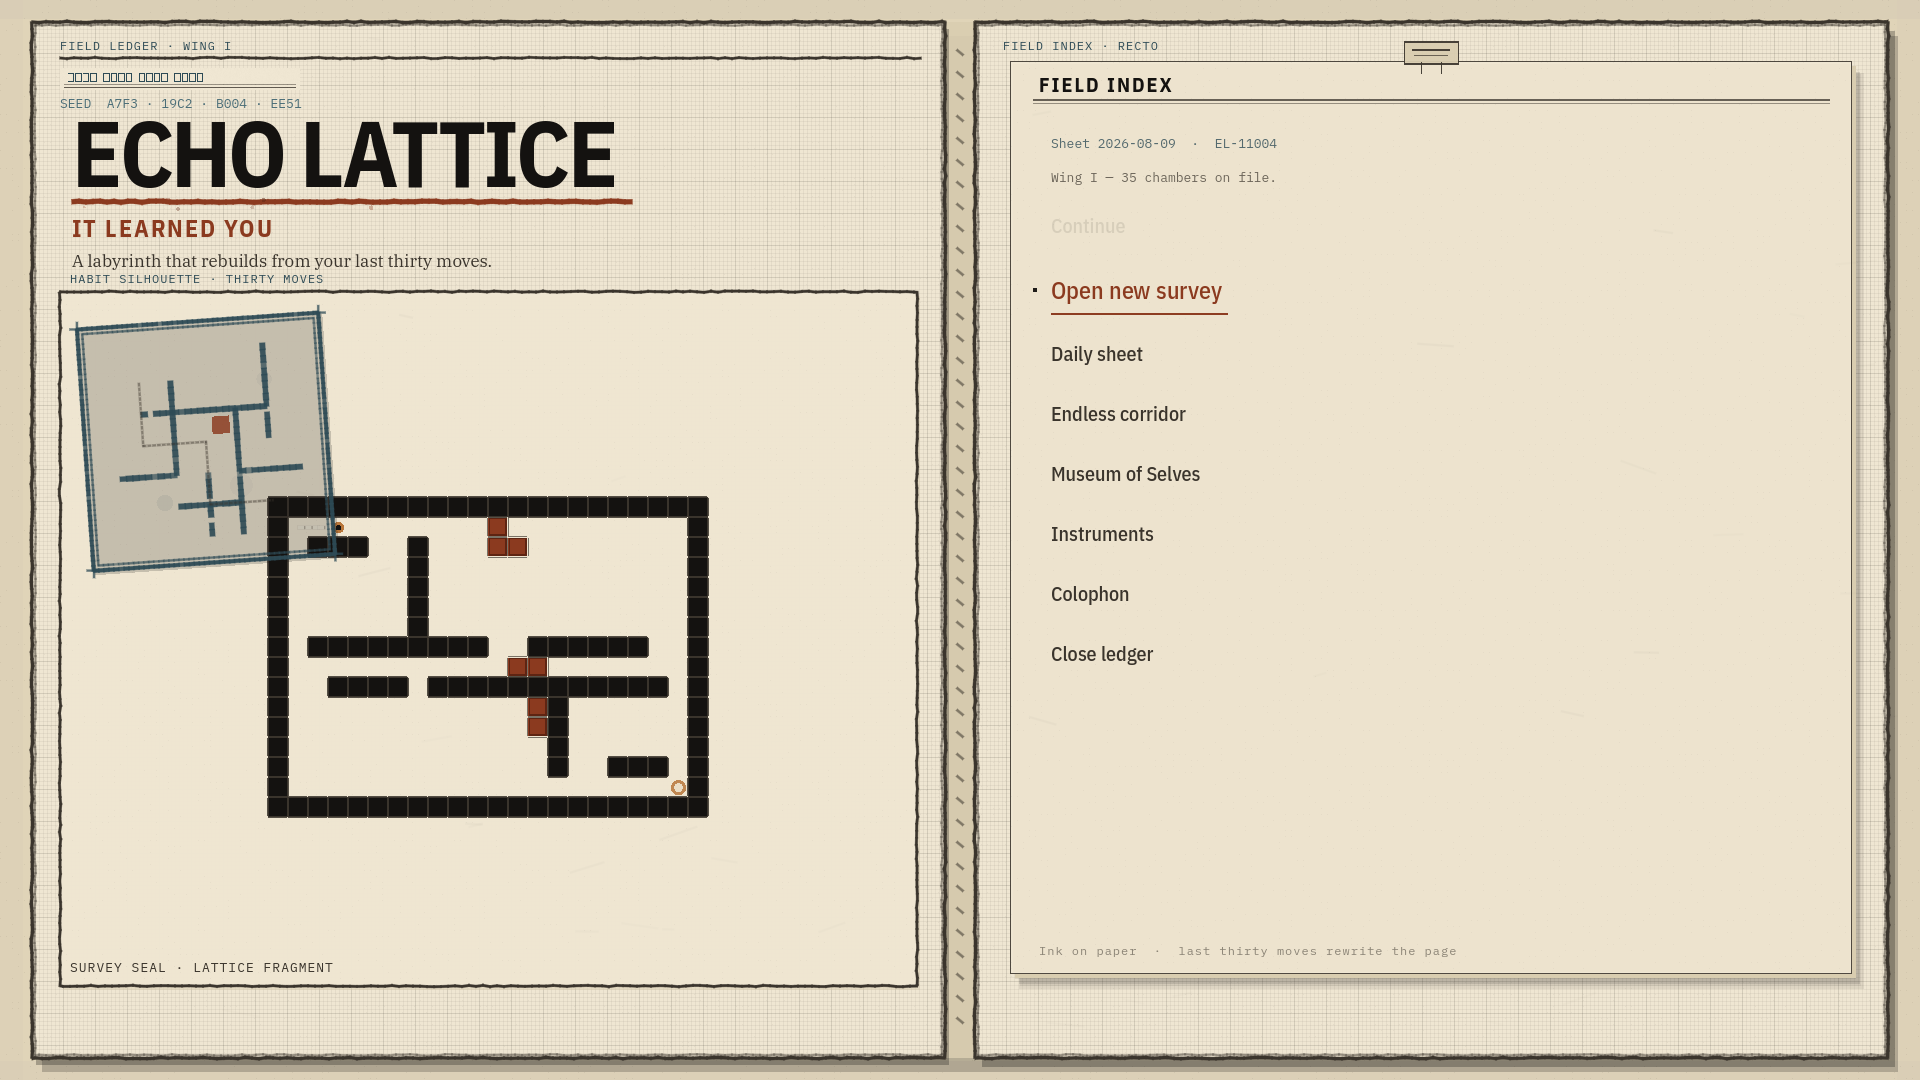
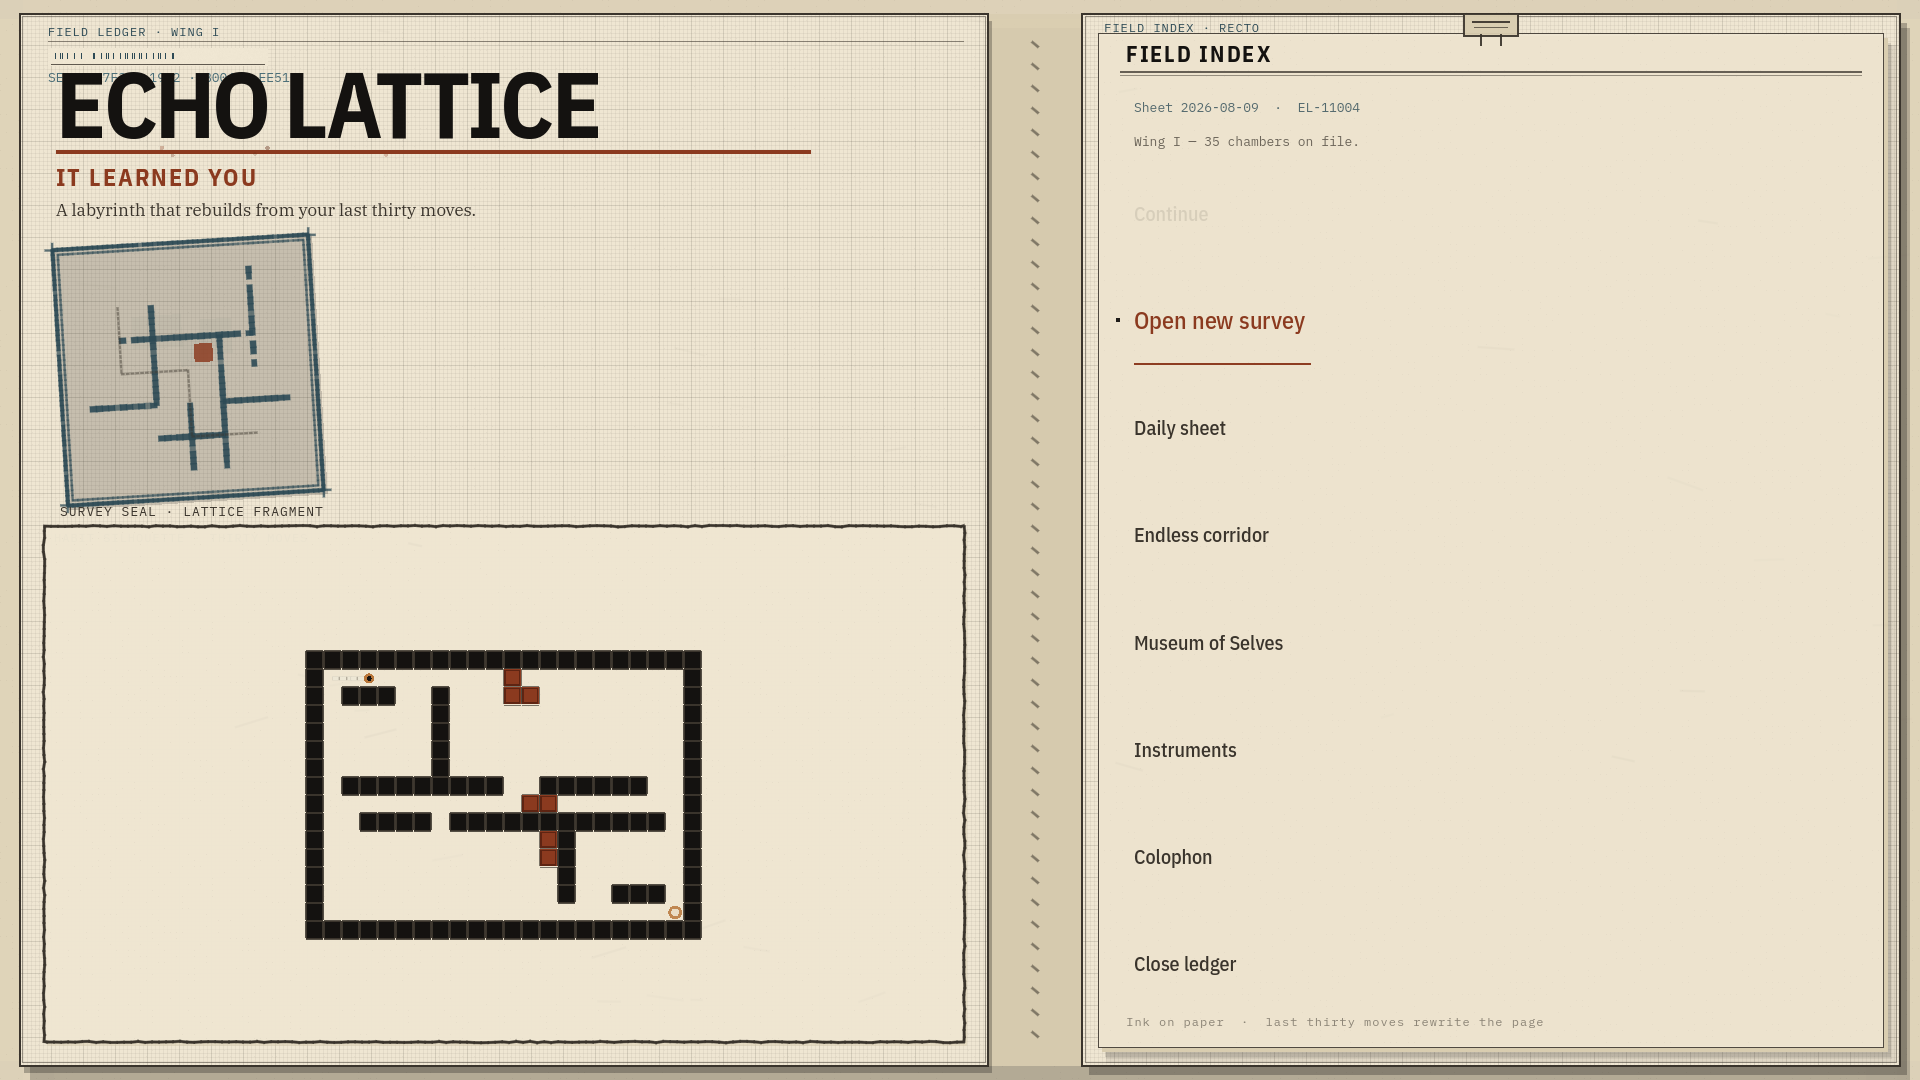
media(menu): recapture hard-reset brand slate + settle Field Index
Force cold-boot Field Index fully inked in frame 0, expand action rows
through the plate, widen brand rule, and recapture 02_brand_main_menu.png
@ 1920×1080. Stamp VIEW_MEDIA tip to menu-hard-reset.

Changed region(s): [[0.0, 0.0, 1.0, 1.0]]

diff --git a/game/echo_lattice/tests/test_menu_composition_density.py b/game/echo_lattice/tests/test_menu_composition_density.py
@@ -55,19 +55,19 @@ def _layout_rects() -> dict:
     brand_y = left[1] + left[3] * 0.118
     brand_w = min(560.0, left[2] - 72.0)
     brand_block = (brand_x, brand_y - brand_px, brand_w, float(brand_px) + 96.0)
-    seal_half = min(110.0, left[2] * 0.22)
+    seal_half = min(128.0, left[2] * 0.26)
     seal = (
         brand_x + 4.0,
-        brand_block[1] + brand_block[3] + 10.0,
+        brand_block[1] + brand_block[3] + 8.0,
         seal_half * 2.0,
         seal_half * 2.0,
     )
-    sil_top = seal[1] + seal[3] + 18.0
+    sil_top = seal[1] + seal[3] + 28.0
     sil = (
         left[0] + 24.0,
         sil_top,
         max(200.0, left[2] - 48.0),
-        max(120.0, left[1] + left[3] - sil_top - 28.0),
+        max(120.0, left[1] + left[3] - sil_top - 24.0),
     )
     side_pad, top_pad, bot_pad = 16.0, 20.0, 18.0
     card = (
@@ -246,15 +246,15 @@ class TestMenuCompositionDensity(unittest.TestCase):
         )
         self.assertGreater(brand, 400, msg="ECHO LATTICE brand ink missing on left")
 
-        # Field Index left edge in the right ~42% column — not off-screen / corner.
+        # Field Index left edge in the right ~42% column — skip spine trough ink.
         left = None
-        for x in range(980, 1280):
+        for x in range(1040, 1280):
             if lum(x, 220) < 100:
                 left = x
                 break
         self.assertIsNotNone(left, msg="Field Index left edge missing")
         self.assertLess(left, 1180, msg="Field Index crammed to far corner")
-        self.assertGreaterEqual(left, 1000, msg="Field Index spilled into brand leaf")
+        self.assertGreaterEqual(left, 1040, msg="Field Index spilled into brand leaf")
 
         # Full-height plate edge.
         runs: list[tuple[int, int]] = []
@@ -272,14 +272,23 @@ class TestMenuCompositionDensity(unittest.TestCase):
         top, bottom = max(runs, key=lambda r: r[1] - r[0])
         self.assertGreater(bottom - top, 780, msg="Field Index plate too short")
 
-        # Action ink inside the plate (all rows readable).
+        # Action ink inside the plate — Condensed Medium strokes are thin; sample densely.
         text_hits = sum(
             1
-            for y in range(top + 40, bottom - 40, 3)
-            for x in range(left + 40, min(left + 420, w - 4), 3)
-            if lum(x, y) < 145
+            for y in range(top + 40, bottom - 40, 2)
+            for x in range(left + 40, min(left + 520, w - 4), 2)
+            if lum(x, y) < 100
         )
-        self.assertGreater(text_hits, 900, msg="Field Index actions missing / off-screen")
+        self.assertGreater(text_hits, 700, msg="Field Index actions missing / off-screen")
+        # Actions must span the plate height (not a postage-stamp cluster at the top).
+        ink_ys = [
+            y
+            for y in range(top + 50, bottom - 40, 2)
+            if any(lum(x, y) < 100 for x in range(left + 40, min(left + 420, w - 4), 2))
+        ]
+        self.assertGreaterEqual(len(ink_ys), 40, msg="Field Index action ink too sparse")
+        span = (max(ink_ys) - min(ink_ys)) if ink_ys else 0
+        self.assertGreaterEqual(span, 420, msg="Field Index actions still crammed to one band")
 
         # No concentric dashed-circle seal: polar ring score around brand seal zone.
         # Rectangular plate has ink on flats; a circle seal spikes at constant radius.

diff --git a/game/echo_lattice/tests/test_field_ledger_juice.py b/game/echo_lattice/tests/test_field_ledger_juice.py
@@ -419,8 +419,8 @@ class TestDiegeticShellMvp(unittest.TestCase):
             for y in range(top, bottom + 20, 2)
             if sum(1 for x in range(left + 48, left + 360, 2) if lum(x, y) < 150) > 10
         )
-        # Allow a hairline for contact shadow / underline below the ink rule.
-        self.assertLessEqual(text_bottom, bottom + 16)
+        # Allow foot caption / contact shadow / underline below the ink rule.
+        self.assertLessEqual(text_bottom, bottom + 24)
         orphan = sum(
             1
             for y in range(bottom + 28, 1040, 2)

diff --git a/docs/RELEASE/VIEW_MEDIA.md b/docs/RELEASE/VIEW_MEDIA.md
@@ -1,17 +1,15 @@
 # Echo Lattice — view media (gallery)
 
 **Umbrella:** [PR #68](https://github.com/cmp07/Game-/pull/68) · RC1 branch [`cursor/echo-lattice-rc1`](https://github.com/cmp07/Game-/tree/cursor/echo-lattice-rc1)  
-**Tip at index authoring:** `f9edb2beebb26dc6c5a3d2e470437e13124a280a` (menu-10-of-10 / #158 reconciles #157 seal + #159 Field Index; brand slate recapture)
+**Tip at index authoring:** `cursor/menu-hard-reset` — hard composition reset after #158 (USER 4/10); merge → RC1.
 **G1 media refresh:** capsules (`media-g1-capsules`) + screenshots (`media-g1-screenshots`) + trailer (`media-g1-trailer`) into RC1.  
-**Menu 10/10:** letterpress seal plate + premium Field Index (`menu-10-of-10` / #158) — open folio, no dashed circles, selection-only rules; [`MENU_10_OF_10.md`](../VISION/MENU_10_OF_10.md).
-**Menu composition art:** open folio fills the frame (`menu-composition-art` / #156) — large survey seal + authored habit silhouette.  
-**Menu premium:** boutique type/selection (`menu-premium-v1` / #155) — Bold/Medium stack, selection-only rules.  
-**Menu type system:** title roles + selection grammar (`menu-type-system` / #153).  
-**Menu no-hud:** chamber HUD kept off the title stage (`menu-no-hud` / #154).  
-**Menu design craft:** print-shop materials elevation (`menu-design-craft` / #152) — ArtKit desk vignette / letterpress / hero seal.  
+**Menu hard-reset:** explicit 52/42 anchors, ECHO LATTICE ≥72px, rectangular letterpress seal only, Field Index 40–48% width full height, empty layout mass <35%; [`MENU_10_OF_10.md`](../VISION/MENU_10_OF_10.md) · `test_menu_composition_density.py`.  
+**Menu 10/10 (superseded soft tip):** letterpress seal + Field Index (`menu-10-of-10` / #158).  
+**Menu composition art:** open folio fills the frame (`menu-composition-art` / #156).  
+**Menu premium / type / no-hud:** #155 · #153 · #154.  
 
-**Menu restore:** rich Field Ledger title shell (`menu-restore-rich` / #151) — hero brand + substantial Field Index; enclosure fix kept; chamber HUD removed from title. Builds on menu-1000x (#149).  
-**Links below** use branch `cursor/echo-lattice-rc1` (blob + raw).
+**Links below** use branch `cursor/echo-lattice-rc1` (blob + raw) unless noted. Brand slate raw on this tip:  
+`https://github.com/cmp07/Game-/raw/cursor/menu-hard-reset/docs/RELEASE/screenshots/02_brand_main_menu.png`
 
 > **MP4 masters are in-repo.** Watch [`presskit/trailers/echo_lattice_30s.mp4`](presskit/trailers/echo_lattice_30s.mp4) (16:9 Gate A) and [`echo_lattice_15s_vertical.mp4`](presskit/trailers/echo_lattice_15s_vertical.mp4) (9:16 Clip A). Built from G1-recaptured [`trailer/frame_packs/`](trailer/frame_packs/) + [`text_cards/`](trailer/text_cards/) per [`BEAT_SHEET.md`](trailer/BEAT_SHEET.md). Silent AAC bed until authored SFX mix; Partner upload still human.
 
